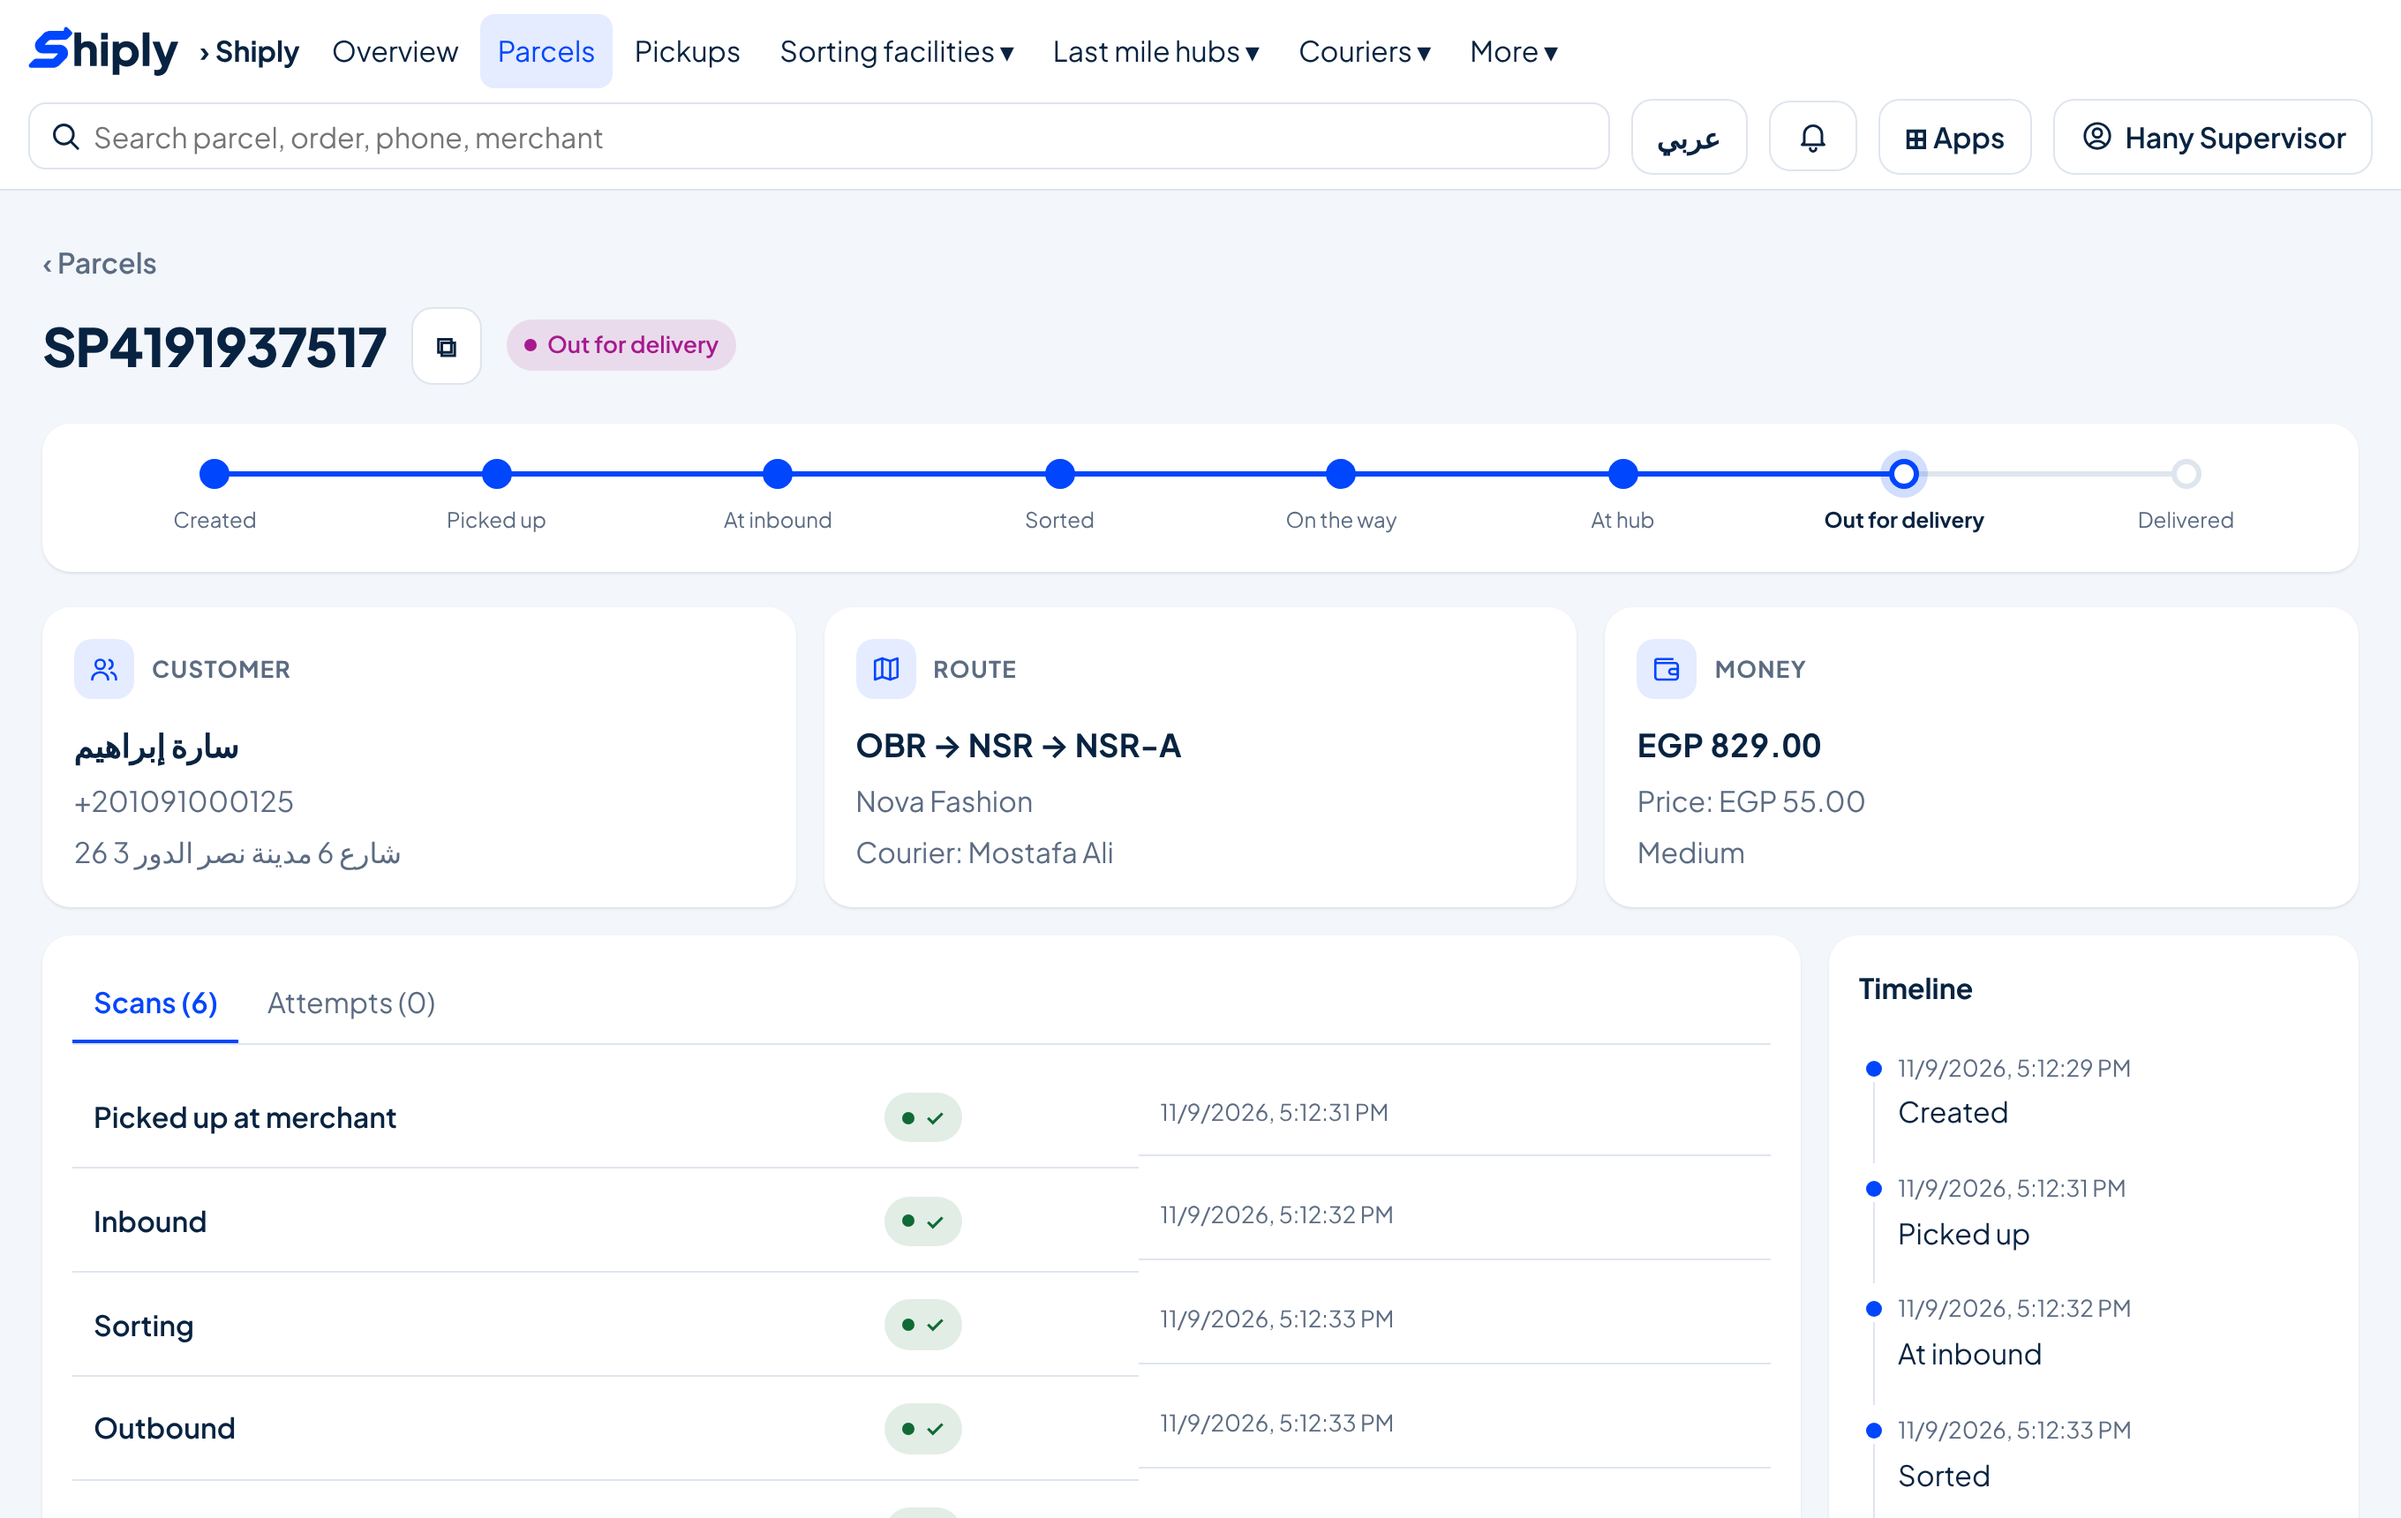
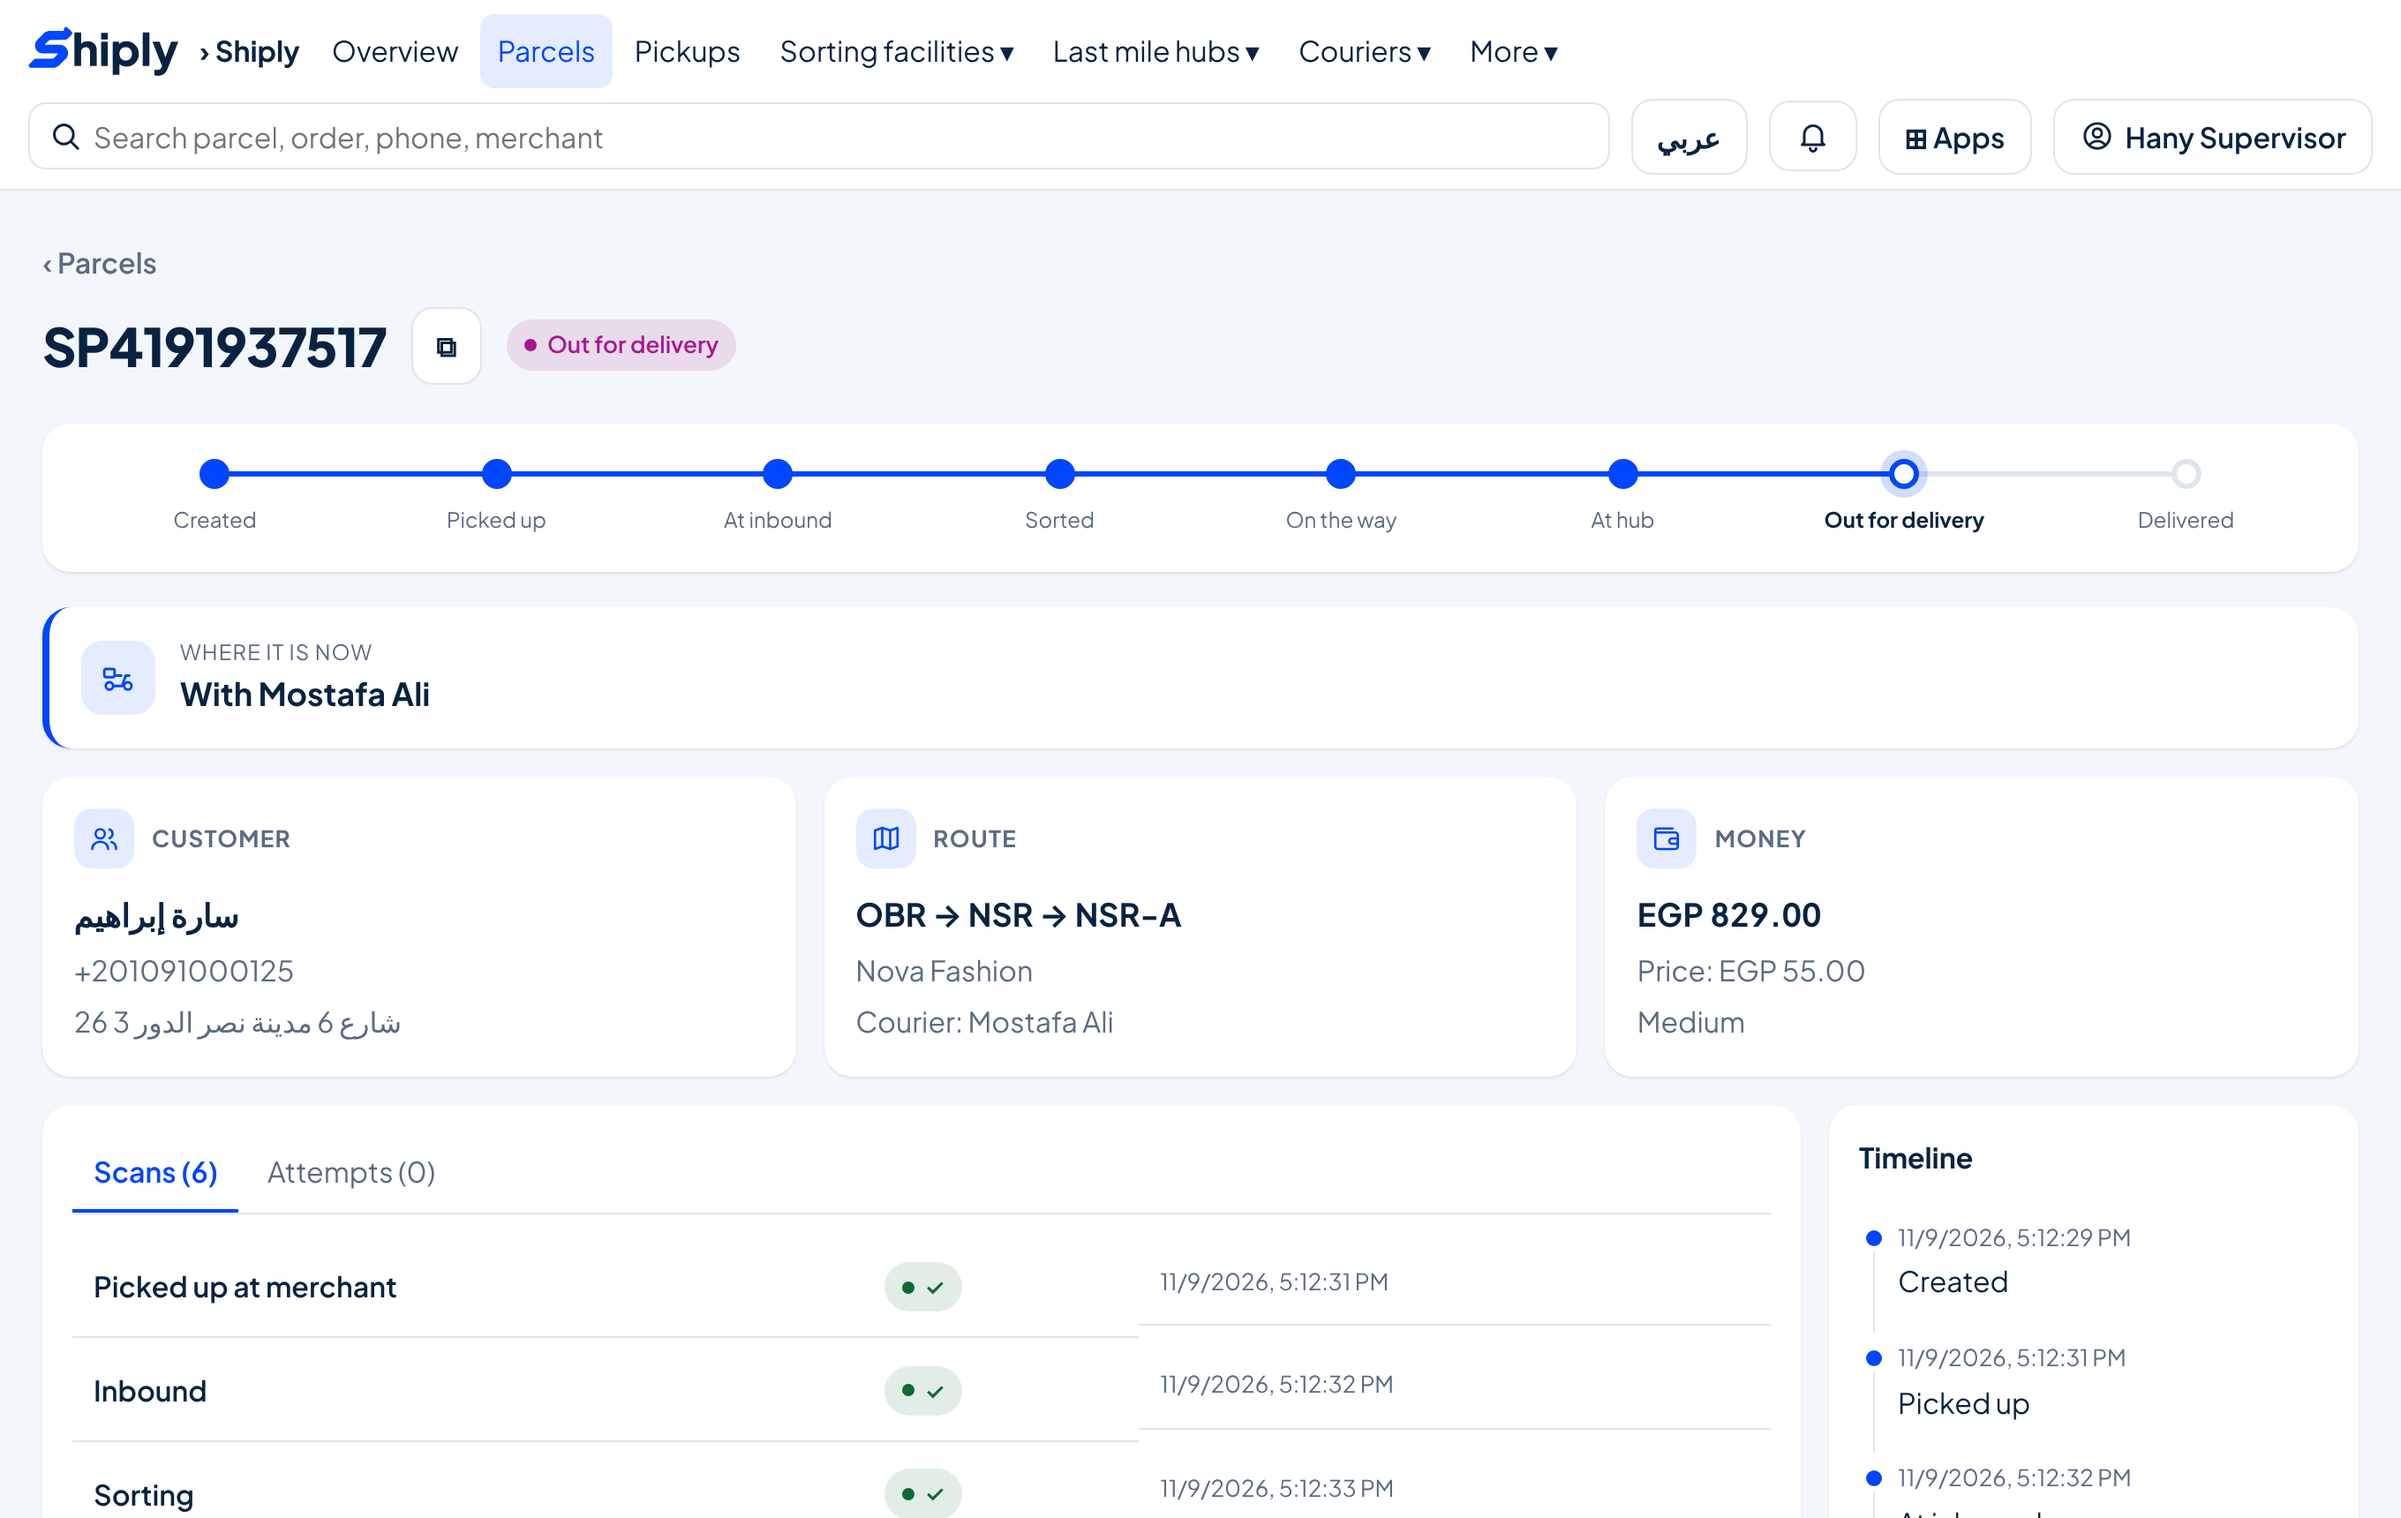
feat(parcels): where a parcel is now, on the list and the record
Claude-Session: https://claude.ai/code/session_0171mSFXv1nQtUzxdNZSoiBv

diff --git a/shiply/apps/api/src/parcels/where.ts b/shiply/apps/api/src/parcels/where.ts
@@ -1,0 +1,63 @@
+import type { PrismaClient } from '@shiply/db';
+
+type Parcel = NonNullable<Awaited<ReturnType<PrismaClient['parcel']['findUnique']>>>;
+
+export type WhereNow =
+  | { kind: 'merchant'; merchantId: string }
+  | { kind: 'courier'; userId: string | null }
+  | { kind: 'site'; siteId: string | null; bagSeal?: string }
+  | { kind: 'car'; carId: string | null; fromSiteId: string | null; toSiteId: string | null; bagSeal?: string }
+  | { kind: 'customer' }
+  | { kind: 'none' };
+
+/** Where each parcel physically is now, from its status, its bag and car, and its last scan. */
+export async function whereNow(db: PrismaClient, parcels: Parcel[]): Promise<Map<string, WhereNow>> {
+  const bagIds = [...new Set(parcels.map((p) => p.bagId).filter((x): x is string => !!x))];
+  const bags = bagIds.length ? await db.bag.findMany({ where: { id: { in: bagIds } } }) : [];
+  const carIds = [...new Set(bags.map((b) => b.carId).filter((x): x is string => !!x))];
+  const cars = carIds.length ? await db.car.findMany({ where: { id: { in: carIds } } }) : [];
+  const pickedUp = parcels.filter((p) => p.status === 'picked_up').map((p) => p.id);
+  const pickupScans = pickedUp.length ? await db.scan.findMany({ where: { parcelId: { in: pickedUp }, step: 'pickup', ok: true }, orderBy: { at: 'desc' } }) : [];
+  const out = new Map<string, WhereNow>();
+  for (const p of parcels) {
+    const bag = bags.find((b) => b.id === p.bagId);
+    const car = cars.find((c) => c.id === bag?.carId);
+    let w: WhereNow;
+    switch (p.status) {
+      case 'created':
+      case 'returned':
+        w = { kind: 'merchant', merchantId: p.merchantId };
+        break;
+      case 'picked_up':
+        w = { kind: 'courier', userId: pickupScans.find((s) => s.parcelId === p.id)?.userId ?? null };
+        break;
+      case 'at_inbound':
+      case 'sorted':
+        w = { kind: 'site', siteId: p.originFacilityId };
+        break;
+      case 'at_outbound':
+        w = { kind: 'site', siteId: bag?.fromSiteId ?? p.originFacilityId, bagSeal: bag?.seal };
+        break;
+      case 'in_transit':
+        w = { kind: 'car', carId: car?.id ?? null, fromSiteId: bag?.fromSiteId ?? null, toSiteId: bag?.toSiteId ?? null, bagSeal: bag?.seal };
+        break;
+      case 'out_for_delivery':
+        w = { kind: 'courier', userId: p.courierId };
+        break;
+      case 'attempt_failed':
+      case 'on_hold':
+        w = p.courierId ? { kind: 'courier', userId: p.courierId } : { kind: 'site', siteId: p.hubId };
+        break;
+      case 'at_hub':
+        w = { kind: 'site', siteId: p.hubId };
+        break;
+      case 'delivered':
+        w = { kind: 'customer' };
+        break;
+      default:
+        w = { kind: 'none' };
+    }
+    out.set(p.id, w);
+  }
+  return out;
+}

diff --git a/shiply/apps/web/src/app/[locale]/(shell)/shiply/parcels/[id]/page.tsx b/shiply/apps/web/src/app/[locale]/(shell)/shiply/parcels/[id]/page.tsx
@@ -11,11 +11,13 @@ import { RecordPage } from '@/shell/RecordPage';
 import { confirm, toast } from '@/shell/feedback';
 import { LoadError } from '@/shell/LoadError';
 import { useMe } from '@/shell/me';
+import { Icon } from '@/shell/Icon';
 import { Badge, parcelTone } from '@/ui/Badge';
 import { InfoCard, Journey } from '@/ui/Drawer';
 import { SHIPLY_MENU } from '../../menu';
 import { useLookups } from '../../shared';
 import type { Parcel } from '../page';
+import { useWhereNow } from '../../WhereNow';
 
 interface Full extends Parcel {
   notes: string | null;
@@ -35,6 +37,7 @@ export default function ParcelRecord() {
   const locale = useLocale() as 'ar' | 'en';
   const me = useMe();
   const look = useLookups();
+  const where = useWhereNow();
   const { id } = useParams<{ id: string }>();
   const [p, setP] = useState<Full | null>(null);
   const [failed, setFailed] = useState<unknown>(null);
@@ -91,6 +94,15 @@ export default function ParcelRecord() {
         summary={
           <>
             {step >= 0 && <Journey steps={JOURNEY.map((k) => ({ key: k, label: t(`shiply.journey.${k}` as never) }))} current={step} failed={journeyFailed} />}
+            <div className="now-banner" data-testid="parcel-now">
+              <span className="info-icon">
+                <Icon name={where(p.now).icon} size={20} />
+              </span>
+              <div>
+                <span className="now-label">{t('shiply.now')}</span>
+                <strong>{where(p.now).text}</strong>
+              </div>
+            </div>
             <div className="info-grid">
               <InfoCard icon="customers" title={t('shiply.customer')}>
                 <span className="big">{p.customerName}</span>

diff --git a/shiply/apps/web/src/app/[locale]/(shell)/shiply/WhereNow.tsx b/shiply/apps/web/src/app/[locale]/(shell)/shiply/WhereNow.tsx
@@ -1,0 +1,37 @@
+'use client';
+import { useTranslations } from 'next-intl';
+import { useLookups } from './shared';
+
+export type WhereNowValue =
+  | { kind: 'merchant'; merchantId: string }
+  | { kind: 'courier'; userId: string | null }
+  | { kind: 'site'; siteId: string | null; bagSeal?: string }
+  | { kind: 'car'; carId: string | null; fromSiteId: string | null; toSiteId: string | null; bagSeal?: string }
+  | { kind: 'customer' }
+  | { kind: 'none' };
+
+/** Where a parcel physically is now, in words. */
+export function useWhereNow() {
+  const t = useTranslations('shiply');
+  const look = useLookups();
+  const siteName = (id: string | null) => {
+    const s = look.sites.find((x) => x.id === id);
+    return s ? look.label(s) : '';
+  };
+  return (w?: WhereNowValue): { icon: string; text: string } => {
+    switch (w?.kind) {
+      case 'merchant':
+        return { icon: 'store', text: t('nowAt.merchant', { name: look.merchant(w.merchantId) }) };
+      case 'courier':
+        return { icon: 'courier', text: t('nowAt.courier', { name: look.person(w.userId) || '…' }) };
+      case 'site':
+        return { icon: 'inventory', text: w.bagSeal ? t('nowAt.bag', { seal: w.bagSeal, site: siteName(w.siteId) }) : t('nowAt.site', { site: siteName(w.siteId) }) };
+      case 'car':
+        return { icon: 'route', text: t('nowAt.car', { from: look.site(w.fromSiteId), to: look.site(w.toSiteId) }) };
+      case 'customer':
+        return { icon: 'delivered', text: t('nowAt.customer') };
+      default:
+        return { icon: 'alert', text: '' };
+    }
+  };
+}

diff --git a/shiply/apps/web/src/app/[locale]/(shell)/shiply/parcels/page.tsx b/shiply/apps/web/src/app/[locale]/(shell)/shiply/parcels/page.tsx
@@ -14,6 +14,7 @@ import { Drawer } from '@/ui/Drawer';
 import { SHIPLY_MENU } from '../menu';
 import { useLookups } from '../shared';
 import { NewParcelForm } from './NewParcelForm';
+import { useWhereNow, type WhereNowValue } from '../WhereNow';
 
 export interface Parcel {
   id: string;
@@ -33,6 +34,7 @@ export interface Parcel {
   attempts: number;
   courierId: string | null;
   createdAt: string;
+  now?: WhereNowValue;
 }
 
 const CHIPS = ['', 'created', 'picked_up', 'at_inbound', 'sorted', 'in_transit', 'at_hub', 'out_for_delivery', 'attempt_failed', 'on_hold', 'delivered', 'returned'];
@@ -43,6 +45,7 @@ export default function ParcelsPage() {
   const me = useMe();
   const router = useRouter();
   const look = useLookups();
+  const where = useWhereNow();
   const [f, setF] = useState({ status: '', hub: '', merchant: '', q: '' });
   const [page, setPage] = useState(1);
   const [data, setData] = useState<{ rows: Parcel[]; total: number } | null>(null);
@@ -149,6 +152,7 @@ export default function ParcelsPage() {
                 <Badge tone="needs">{t('shiply.noRoute')}</Badge>
               ),
           },
+          { key: 'now', label: t('shiply.now'), render: (r) => <span className="cell-sub now-cell">{where(r.now).text}</span> },
           { key: 'cod', label: t('shiply.cod'), render: (r) => <span className="cell-main mono">{formatEgp(r.codAmount, locale)}</span> },
           { key: 'status', label: t('shiply.status'), render: (r) => <Badge tone={parcelTone(r.status)}>{t(`shiply.statuses.${r.status}` as never)}</Badge> },
           {

diff --git a/shiply/apps/api/src/parcels/parcels.controller.ts b/shiply/apps/api/src/parcels/parcels.controller.ts
@@ -6,6 +6,7 @@ import { normalizeEgyptMobile, parseEgp } from '@shiply/shared';
 import { DB, NeedAccess, parse } from '../platform';
 import { ParcelsService } from './parcels.service';
 import { STATUSES } from './status';
+import { whereNow } from './where';
 
 export const SIZES = ['small', 'medium', 'large', 'light_bulky', 'heavy_bulky'] as const;
 
@@ -67,7 +68,8 @@ export class ParcelsController {
     };
     if ((q.from && isNaN(Date.parse(q.from))) || (q.to && isNaN(Date.parse(q.to)))) throw new HttpException({ error: 'invalid' }, 400);
     const [rows, total] = await Promise.all([this.db.parcel.findMany({ where, orderBy: { createdAt: 'desc' }, skip: (page - 1) * 50, take: 50 }), this.db.parcel.count({ where })]);
-    return { rows, total, page, pageSize: 50 };
+    const now = await whereNow(this.db, rows);
+    return { rows: rows.map((r) => ({ ...r, now: now.get(r.id) })), total, page, pageSize: 50 };
   }
 
   @Get(':key')
@@ -80,7 +82,8 @@ export class ParcelsController {
       this.db.scan.findMany({ where: { parcelId: parcel.id }, orderBy: { at: 'asc' } }),
       this.db.attempt.findMany({ where: { parcelId: parcel.id }, orderBy: { number: 'asc' } }),
     ]);
-    return { ...parcel, events, scans, attemptList: attempts };
+    const now = (await whereNow(this.db, [parcel])).get(parcel.id);
+    return { ...parcel, now, events, scans, attemptList: attempts };
   }
 
   @Post(':id/cancel')

diff --git a/shiply/apps/api/test/hub.test.ts b/shiply/apps/api/test/hub.test.ts
@@ -148,3 +148,19 @@ describe('office reads', () => {
     expect(failed).toEqual([expect.objectContaining({ tracking: ps[0]!.tracking, reason: 'refused', number: 1 })]);
   });
 });
+
+describe('where a parcel is now', () => {
+  it('follows the parcel from the facility to the courier', async () => {
+    const [a] = await toHub(1);
+    const now = async () => (await http().get(`/parcels/${a!.tracking}`).set('Cookie', owner)).body.now;
+    expect(await now()).toMatchObject({ kind: 'car', fromSiteId: net.facility.id, toSiteId: net.hub.id });
+    await scanAt(net.hub.id, 'hub_bag', 'S1');
+    await scanAt(net.hub.id, 'hub_receive', a!.tracking, { bagSeal: 'S1' });
+    expect(await now()).toMatchObject({ kind: 'site', siteId: net.hub.id });
+    const run = (await post('/parcels/runs', { hubId: net.hub.id, courierId: omarId })).body;
+    await scanAt(net.hub.id, 'dispatch', a!.tracking, { runId: run.id });
+    expect(await now()).toMatchObject({ kind: 'courier', userId: omarId });
+    const list = (await http().get('/parcels').set('Cookie', owner)).body.rows;
+    expect(list[0].now).toMatchObject({ kind: 'courier', userId: omarId });
+  });
+});

diff --git a/shiply/apps/web/src/theme/ui.css b/shiply/apps/web/src/theme/ui.css
@@ -114,3 +114,8 @@ button.stat-card:hover, .stat-card.active { border-color: var(--shiply-primary);
 .tabs { border-block-end-color: var(--shiply-line); }
 input[type='checkbox'], input[type='radio'] { min-height: 0; width: 18px; height: 18px; padding: 0; margin: 0; accent-color: var(--shiply-primary); flex: none; }
 .stack-form label.check { display: flex; align-items: center; gap: 10px; color: var(--shiply-text); font-weight: 500; font-size: 14px; }
+.now-banner { display: flex; align-items: center; gap: 14px; background: var(--shiply-surface); border-radius: 16px; padding: 16px 18px; margin-block-end: 16px; box-shadow: var(--shiply-shadow-sm); border-inline-start: 4px solid var(--shiply-primary); }
+.now-banner .info-icon { width: 42px; height: 42px; border-radius: 12px; }
+.now-label { display: block; font-size: 12px; text-transform: uppercase; letter-spacing: 0.05em; color: var(--shiply-text-muted); }
+.now-banner strong { font-size: 18px; }
+.now-cell { white-space: normal; max-width: 220px; }

diff --git a/shiply/apps/web/e2e/shiply.spec.ts b/shiply/apps/web/e2e/shiply.spec.ts
@@ -21,6 +21,7 @@ test('a new parcel gets its zone, hub and price from the address', async ({ page
   await expect(page.getByTestId('parcel-route')).toContainText('HEL-A');
   await expect(page.getByTestId('parcel-route')).toContainText('HLF');
   await expect(page.getByTestId('parcel-price')).toHaveText('EGP 45.00');
+  await expect(page.getByTestId('parcel-now')).toContainText('At the merchant: Eve Store');
 });
 
 test('inbound shows expected against received, and closing a car flags what never arrived', async ({ page }) => {
